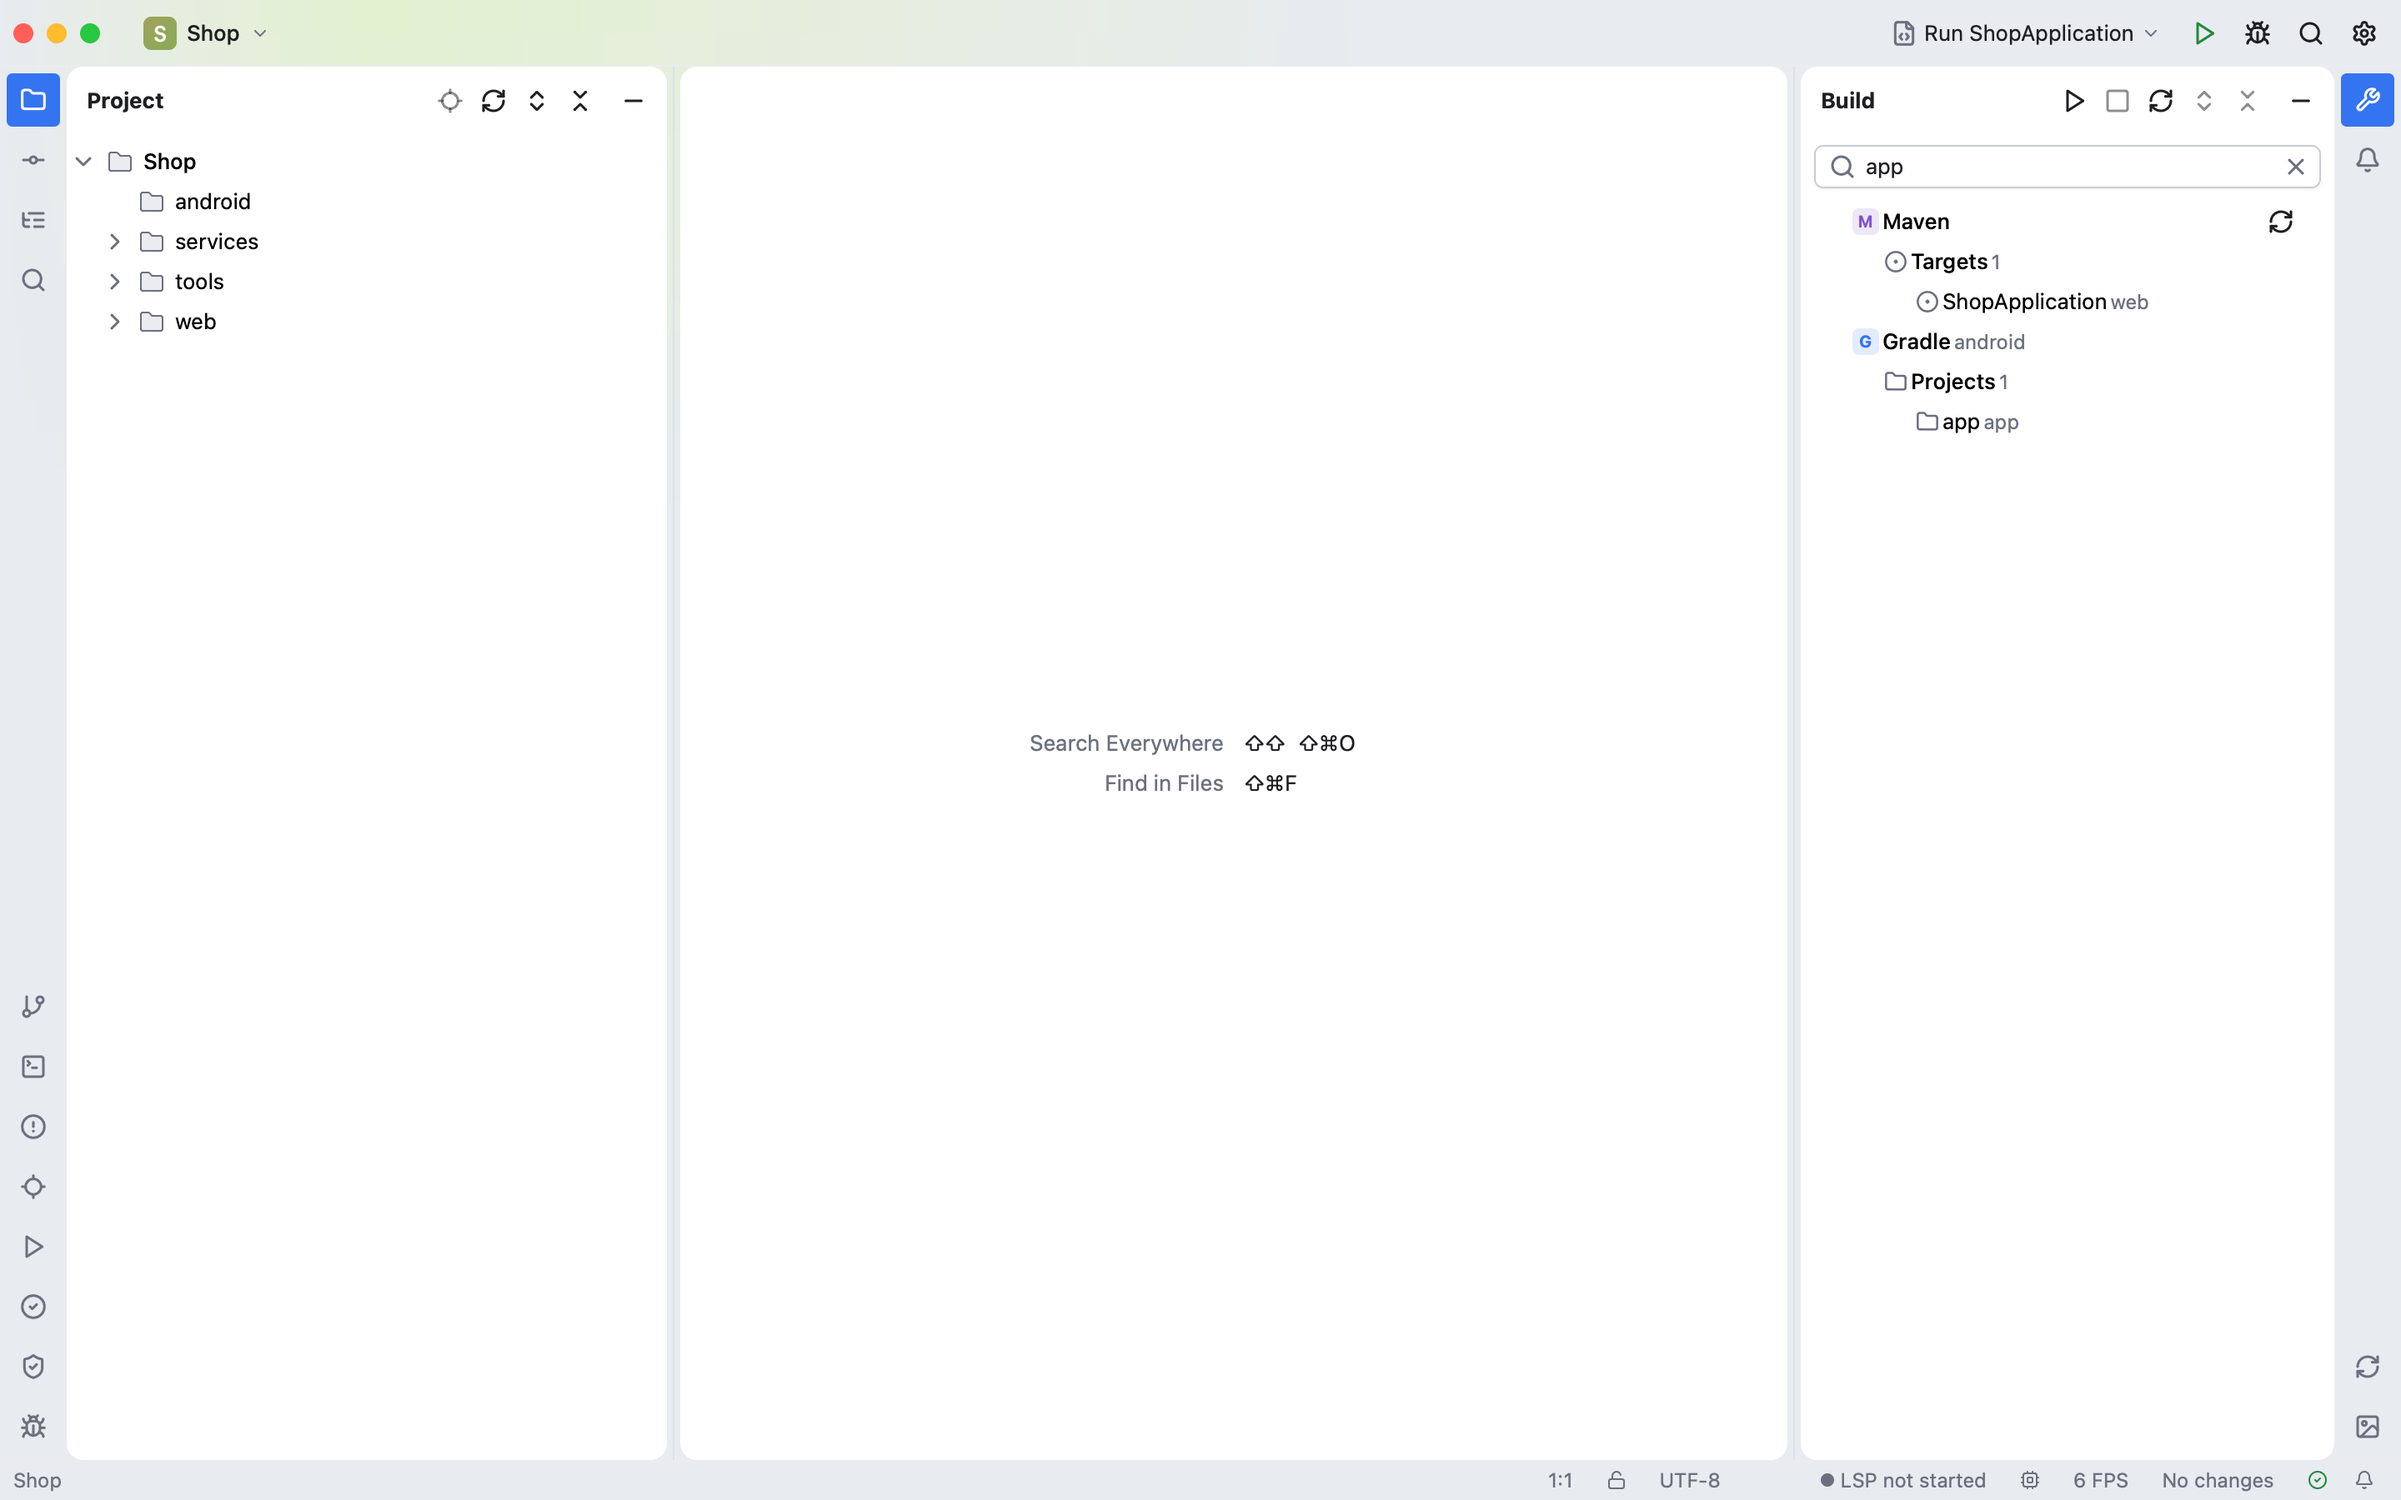
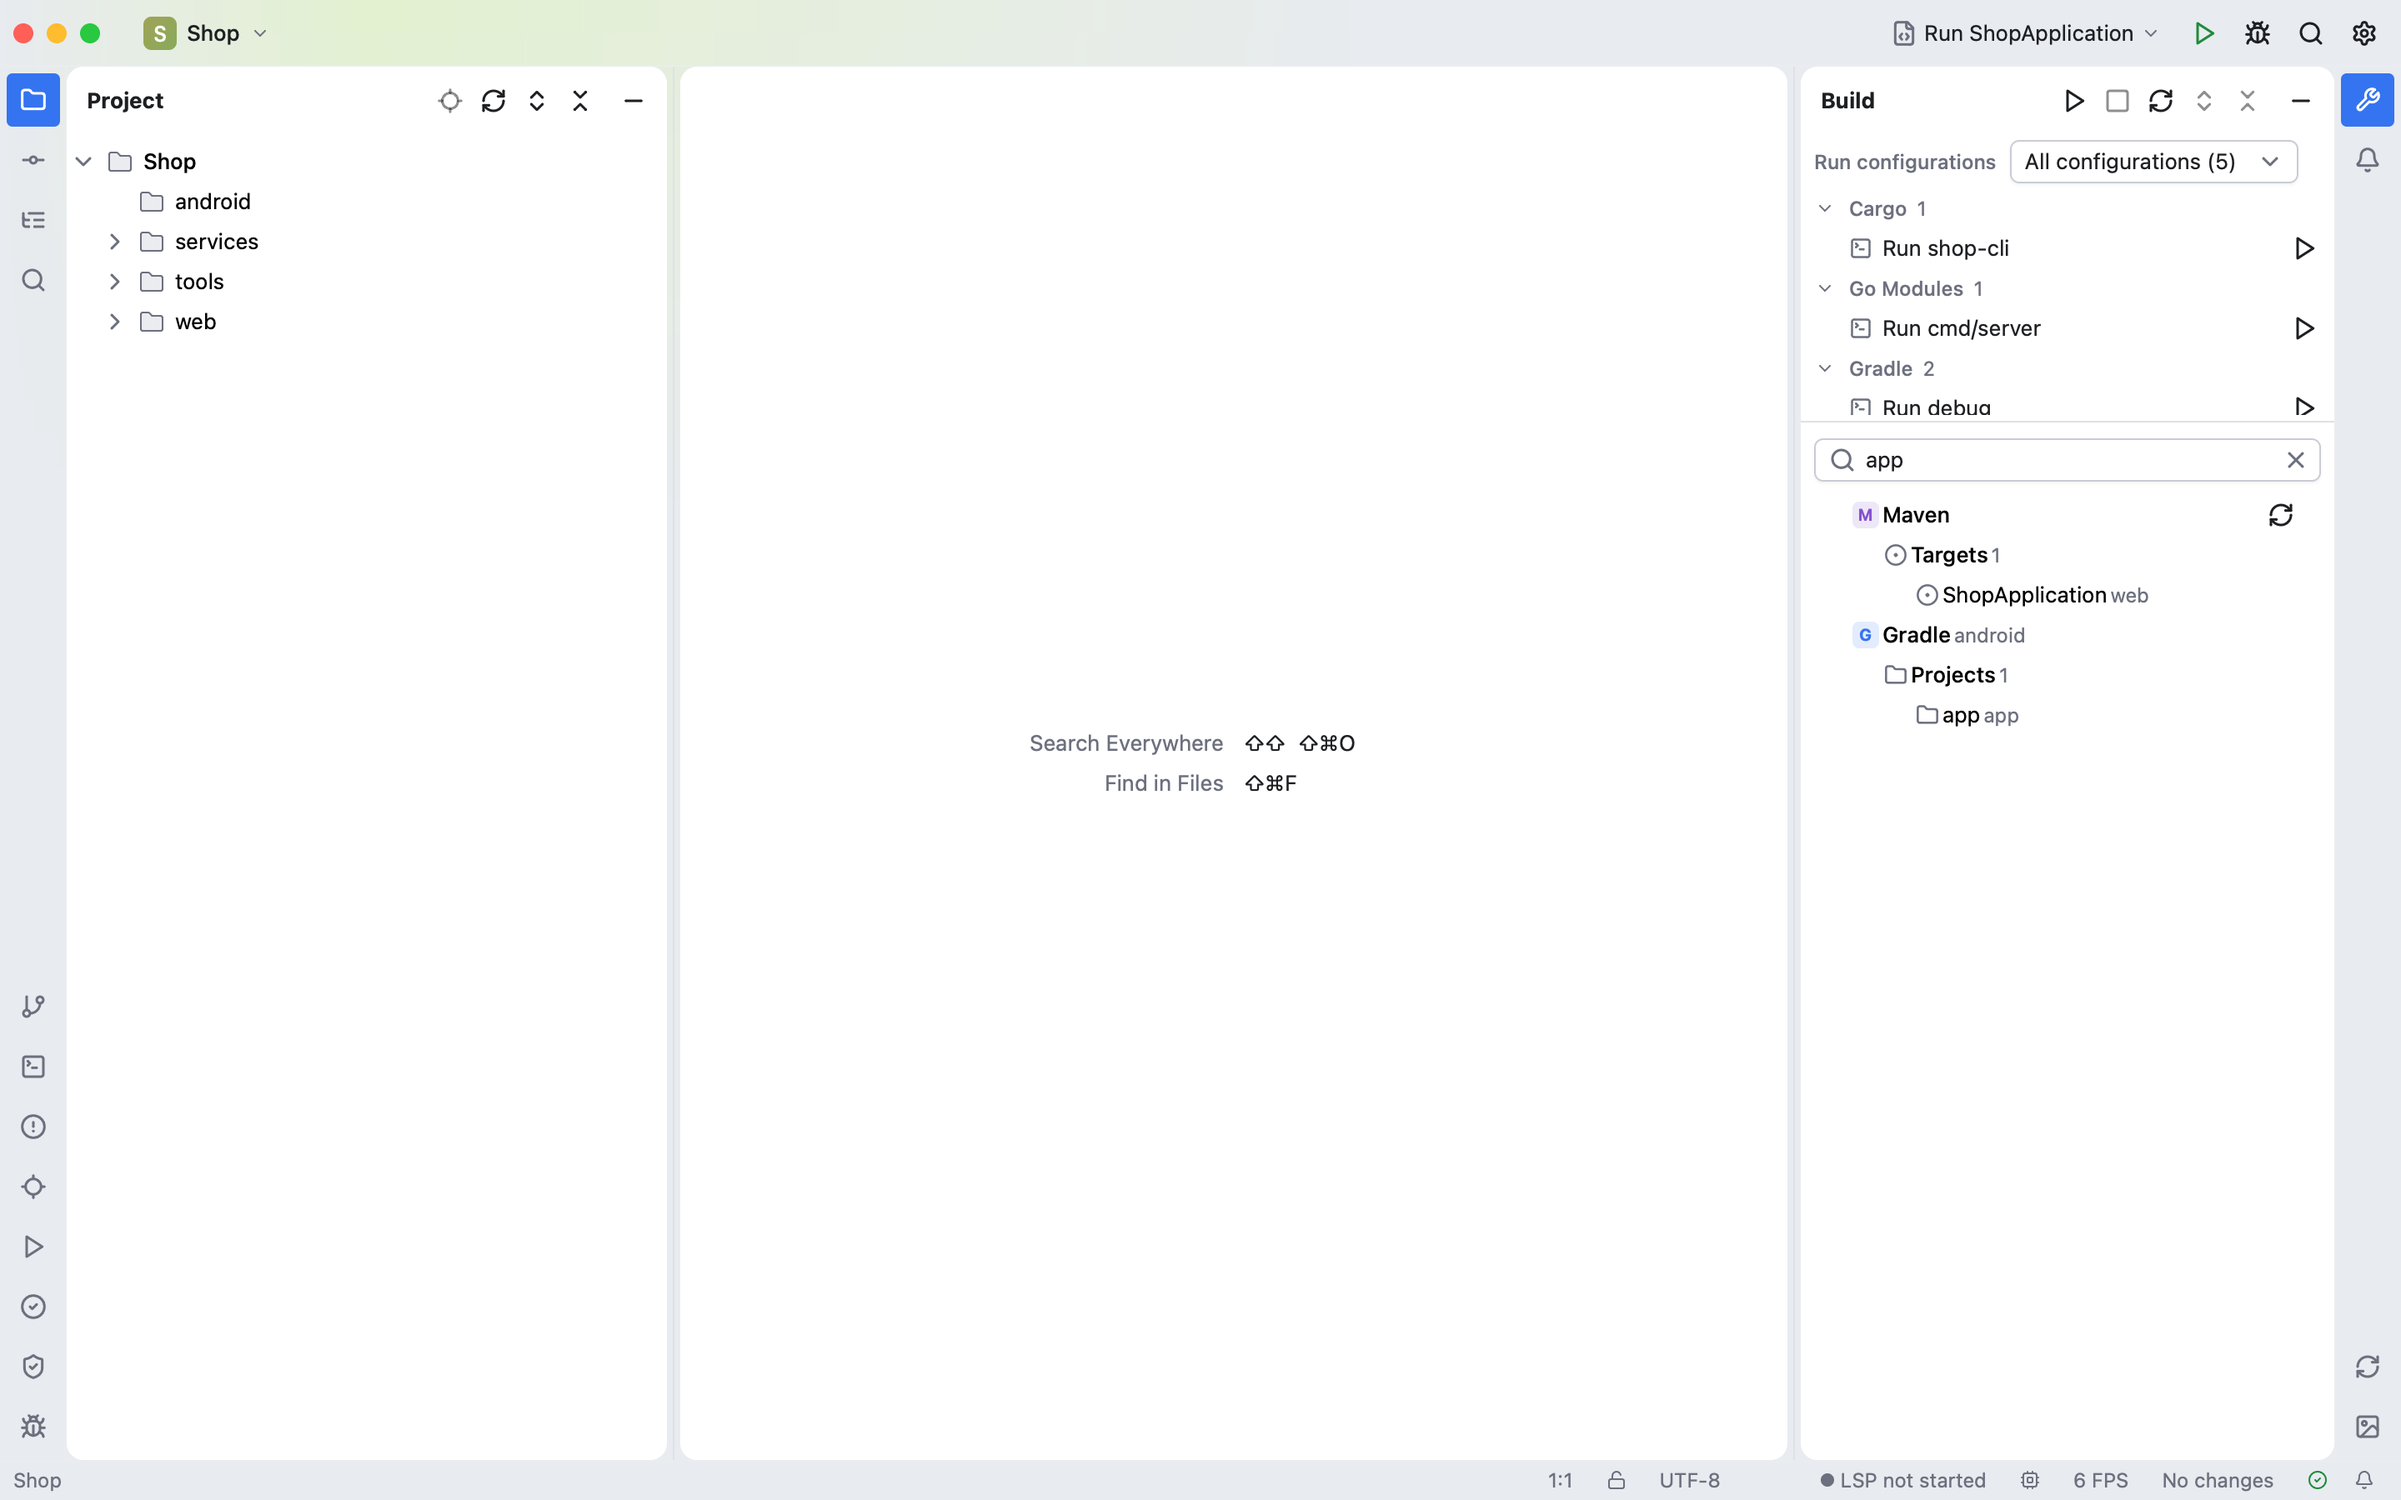
feat(desktop): 运行配置移到右侧构建窗口，底部运行窗口只显示输出
运行配置列表放在 Build 窗口顶部，构建树在它下面，中间是可拖动的分隔条；筛选框和构建树合在一个容器里，分隔条的上下限按整棵树计算。底部 Run 窗口只显示构建控制台和插件启动的运行。

Changed region(s): [[0.75, 0.0933, 0.9688, 0.3111], [0.75, 0.3422, 0.875, 0.4978], [0.9375, 0.28, 0.9688, 0.3111]]

diff --git a/desktop/internal/workbench/runconfig_browser_test.go b/desktop/internal/workbench/runconfig_browser_test.go
@@ -25,7 +25,7 @@ func runBrowserInstances() []buildInstance {
 	return []buildInstance{engine, alpha}
 }
 
-// The Run tool window lists the run configurations under the build system that provides them,
+// The Build tool window lists the run configurations under the build system that provides them,
 // in a scope of every configuration, the pinned ones or one execution kind, each scope with its
 // count. A pin is written into the client's store, outside the project, and read back with the
 // list; a group closes and opens; a double click runs a configuration through its provider; and
@@ -48,8 +48,8 @@ func TestRunConfigurationListScopesGroupsPinsAndRuns(t *testing.T) {
 	h.app.post(func(a *App) {
 		p.build.instances, p.build.loaded = runBrowserInstances(), true
 		a.refreshRunConfigurations(p)
-		if !a.chrome.isOpen(catalogIndex[itemRun]) {
-			a.reduceChrome(core.SetChromeOpen(itemRun, true))
+		if !a.chrome.isOpen(catalogIndex[itemBuild]) {
+			a.reduceChrome(core.SetChromeOpen(itemBuild, true))
 		}
 	})
 	s := &p.runConfigs
@@ -72,7 +72,7 @@ func TestRunConfigurationListScopesGroupsPinsAndRuns(t *testing.T) {
 		t.Fatalf("scopes %q, want every, pinned, then the service and application kinds", got)
 	}
 	if !h.shows(i18n.Shared(lang, "native.runConfigurations")) || !h.shows(h.app.runScopeLabel(s, "")) {
-		t.Fatal("the Run tool window does not show the configurations under the scope of all of them")
+		t.Fatal("the Build tool window does not show the configurations under the scope of all of them")
 	}
 	if h.app.runScopeLabel(s, "") != "All configurations (3)" || h.app.runScopeLabel(s, "application") != "Applications (2)" {
 		t.Fatalf("scope labels %q and %q", h.app.runScopeLabel(s, ""), h.app.runScopeLabel(s, "application"))
@@ -120,13 +120,25 @@ func TestRunConfigurationListScopesGroupsPinsAndRuns(t *testing.T) {
 		t.Fatalf("pinned rows %q", got)
 	}
 
-	// A group closes over its configurations and opens again.
-	h.clickNamed(i18n.Shared(lang, "native.collapseSection") + " Engine")
+	// A group closes over its configurations and opens again. The build tree under the list
+	// has an Engine group of the same name, so the arrow clicked is the first one declared,
+	// the list's.
+	clickListed := func(name string) {
+		t.Helper()
+		for _, hit := range h.driver.Snapshot().Hits {
+			if hit.Label == name && !hit.IsLabel && !hit.ID.IsZero() {
+				h.click(center(hit.Bounds))
+				return
+			}
+		}
+		t.Fatalf("no control named %q", name)
+	}
+	clickListed(i18n.Shared(lang, "native.collapseSection") + " Engine")
 	h.settle()
 	if got := rows(); !slices.Equal(got, []string{"[Engine]"}) {
 		t.Fatalf("rows of the closed group %q", got)
 	}
-	h.clickNamed(i18n.Shared(lang, "native.expandSection") + " Engine")
+	clickListed(i18n.Shared(lang, "native.expandSection") + " Engine")
 	h.settle()
 	if got := rows(); !slices.Equal(got, []string{"[Engine]", "Serve Main"}) {
 		t.Fatalf("rows of the opened group %q", got)

diff --git a/desktop/internal/workbench/build_tree_view.go b/desktop/internal/workbench/build_tree_view.go
@@ -63,8 +63,8 @@ func (a *App) buildToolActions(c ui.C, p *project) {
 	})
 }
 
-// buildToolView declares the Build tool window: the tree of the build systems under a filter
-// field, or why there is none. The models of the groups the tree shows open are loaded after
+// buildToolView declares the Build tool window: the run configurations, and under them the
+// tree of the build systems under a filter field, or why there is none. The models of the groups the tree shows open are loaded after
 // it is declared, a few at a time.
 func (a *App) buildToolView(c ui.C, p *project) {
 	b, t, language := &p.build, a.text.Build, a.language()
@@ -99,26 +99,31 @@ func (a *App) buildToolView(c ui.C, p *project) {
 		return
 	}
 	ui.Column(c).Fill().Children(func() {
-		a.buildFilter(c, p)
-		// The rows are listed after the filter field took this frame's typing, so the tree
-		// already shows what was typed.
-		rows := a.buildTreeRows(p)
-		if len(rows) == 0 {
-			a.buildNotice(c, i18n.Shared(language, "desktop.build.noMatches"), "", nil)
-			return
-		}
-		list := &p.panels.choices
-		// Groups and sections open and close by a click, so none of them is a pinned header.
-		list.Header = nil
-		list.Label = func(i int) string {
-			if i >= 0 && i < len(rows) {
-				return rows[i].label
+		a.runConfigList(c, p)
+		// The filter field and the tree are one pane, the second of the splitter under the run
+		// configurations, so the splitter's limits count the whole tree and not the field alone.
+		ui.Column(c).FillWidth().Grow(1).Shrink(1).MinHeight(0).Children(func() {
+			a.buildFilter(c, p)
+			// The rows are listed after the filter field took this frame's typing, so the tree
+			// already shows what was typed.
+			rows := a.buildTreeRows(p)
+			if len(rows) == 0 {
+				a.buildNotice(c, i18n.Shared(language, "desktop.build.noMatches"), "", nil)
+				return
 			}
-			return ""
-		}
-		ui.List(c, list, len(rows), func(row ui.ListRow) {
-			a.buildTreeRow(row, p, rows[row.Index])
-		}).Label(t.Systems).FillWidth().Grow(1).MinHeight(0).PadY(treelist.PadY)
+			list := &p.panels.choices
+			// Groups and sections open and close by a click, so none of them is a pinned header.
+			list.Header = nil
+			list.Label = func(i int) string {
+				if i >= 0 && i < len(rows) {
+					return rows[i].label
+				}
+				return ""
+			}
+			ui.List(c, list, len(rows), func(row ui.ListRow) {
+				a.buildTreeRow(row, p, rows[row.Index])
+			}).Label(t.Systems).FillWidth().Grow(1).MinHeight(0).PadY(treelist.PadY)
+		})
 	})
 	a.loadOpenBuildModels(p)
 }

diff --git a/desktop/internal/workbench/build_view.go b/desktop/internal/workbench/build_view.go
@@ -15,16 +15,11 @@ const (
 	buildOutputVisible = 200
 )
 
-// runView declares the Run tool window: the run configurations, and under them the console of
-// what the Build window runs, beside the runs plugins started. The build systems themselves,
-// with their projects, targets and tasks, are the Build window's (build_tree_view.go); this
-// window shows what they print.
+// runView declares the Run tool window, which shows only what runs print: the console of what
+// the Build window runs, beside the runs plugins started. The build systems, with their
+// projects, targets and tasks, and the run configurations are the Build window's
+// (build_tree_view.go).
 func (a *App) runView(c ui.C, p *project) {
-	b := &p.build
-	if !b.loaded && !b.loading {
-		a.loadBuildSystems(p)
-	}
-	t := a.text.Build
 	ui.Column(c).Fill().Background(a.colors.Editor).Children(func() {
 		a.runHeader(c, p)
 		ui.Divider(c)
@@ -32,22 +27,6 @@ func (a *App) runView(c ui.C, p *project) {
 			a.runConsole(c, p, run)
 			return
 		}
-		// Until a task printed something, the console says why the window is empty: the build
-		// systems still loading, failing or absent. Output stays shown while they reload.
-		if len(b.output) == 0 {
-			switch {
-			case b.loading || !b.loaded:
-				a.panelMessage(c, t.LoadingModel, a.colors.Subtle)
-				return
-			case b.failed != "":
-				a.panelMessage(c, b.failed, a.colors.Warning)
-				return
-			case len(b.instances) == 0:
-				a.panelMessage(c, t.NoBuildSystems, a.colors.Subtle)
-				return
-			}
-		}
-		a.runConfigList(c, p)
 		a.buildOutput(c, p)
 	})
 }
@@ -152,8 +131,8 @@ type buildRow struct {
 	test     *core.BuildDiscoveredTest
 }
 
-// buildOutput declares the console of the build tasks, under the run configurations: its
-// header with the status of the last operation, then its lines.
+// buildOutput declares the console of the build tasks: its header with the status of the last
+// operation, then its lines.
 func (a *App) buildOutput(c ui.C, p *project) {
 	t := a.text.Build
 	small := a.theme.Metrics.FontSizeS

diff --git a/desktop/internal/workbench/runconfig_view.go b/desktop/internal/workbench/runconfig_view.go
@@ -38,14 +38,17 @@ func (a *App) runConfigList(c ui.C, p *project) {
 		b.scope = ""
 	}
 	title := i18n.Shared(language, "native.runConfigurations")
-	ui.Column(c.Part("run-configs")).FillWidth().Height(b.split.Pos).Shrink(0).Clip().Children(func() {
-		ui.Row(c).Height(panelHeaderHeight).FillWidth().Shrink(0).Items(ui.Center).Gap(8).PadX(8).Children(func() {
-			ui.Text(c, title).FontSize(small).Weight(gfx.WeightSemibold).Color(a.colors.Subtle).Shrink(0)
-			ui.Select(c.Part("scope"), &b.scope, scopes, func(scope string) string { return a.runScopeLabel(s, scope) }).
+	// The list shares the Build window with the build tree, so its rows are keyed under a part
+	// of their own.
+	k := c.Part("run-configs")
+	ui.Column(k).FillWidth().Height(b.split.Pos).Shrink(0).Clip().Children(func() {
+		ui.Row(k).Height(panelHeaderHeight).FillWidth().Shrink(0).Items(ui.Center).Gap(8).PadX(8).Children(func() {
+			ui.Text(k, title).FontSize(small).Weight(gfx.WeightSemibold).Color(a.colors.Subtle).Shrink(0)
+			ui.Select(k.Part("scope"), &b.scope, scopes, func(scope string) string { return a.runScopeLabel(s, scope) }).
 				Label(title).Shrink(1).MinWidth(0).MaxWidth(240)
-			ui.Spacer(c)
+			ui.Spacer(k)
 		})
-		a.drawRunConfigRows(c, p, title)
+		a.drawRunConfigRows(k, p, title)
 	})
 	ui.Splitter(c, &b.split).Mins(runConfigListMin, runConfigRestMin).Label(a.text.Panel.Resize)
 }

diff --git a/desktop/internal/workbench/runconfig_browser.go b/desktop/internal/workbench/runconfig_browser.go
@@ -15,7 +15,7 @@ import (
 	"github.com/vivaui/viva/ui"
 )
 
-// This file holds the Run tool window's list of run configurations: the scope it shows (every
+// This file holds the Build tool window's list of run configurations: the scope it shows (every
 // configuration, the pinned ones, or those of one execution kind), the configurations of the
 // scope under the build system that provides them, and what a row does. Drawing is in
 // runconfig_view.go.
@@ -48,8 +48,8 @@ func runExecutionTitle(language i18n.Language, execution string) string {
 	return ""
 }
 
-// Heights of the list: as it first shows, and the least of it and of the build console under
-// it, its header and a few lines.
+// Heights of the list in the Build window: as it first shows, and the least of it and of the
+// build tree under it, its filter field and a few rows.
 const (
 	runConfigListHeight = 168
 	runConfigListMin    = 72

diff --git a/desktop/internal/workbench/build_panels_visual_test.go b/desktop/internal/workbench/build_panels_visual_test.go
@@ -59,8 +59,9 @@ func visualBuildSystems() []buildInstance {
 	}
 }
 
-// TestVisualBuildPanels captures the aggregated Build window on the right beside the Run window
-// at the bottom showing the build console, and the Build window filtered.
+// TestVisualBuildPanels captures the Build window on the right, with the run configurations
+// above the aggregated build tree, beside the Run window at the bottom showing only the build
+// console, and the Build window filtered.
 func TestVisualBuildPanels(t *testing.T) {
 	out := os.Getenv("LITHE_VISUAL_OUTPUT_DIR")
 	if out == "" {

diff --git a/docs/assets/build-panels/README.md b/docs/assets/build-panels/README.md
@@ -6,7 +6,7 @@
 
 | 场景 | 深色中文 | 浅色英文 |
 | --- | --- | --- |
-| 右侧聚合构建窗口与底部运行窗口（运行配置列表和构建控制台） | [截图](build-and-run-dark.png) | [截图](build-and-run-light.png) |
+| 右侧构建窗口（运行配置列表和聚合构建树）与底部运行窗口（只显示构建控制台） | [截图](build-and-run-dark.png) | [截图](build-and-run-light.png) |
 | 构建窗口按名称筛选 | [截图](build-filter-dark.png) | [截图](build-filter-light.png) |
 
 复验：设置 `LITHE_VISUAL_OUTPUT_DIR`，通过 `scripts/desktop/desktop-go.sh test
